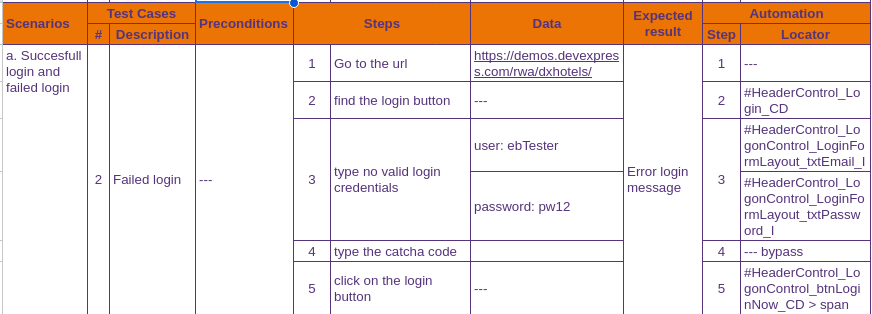
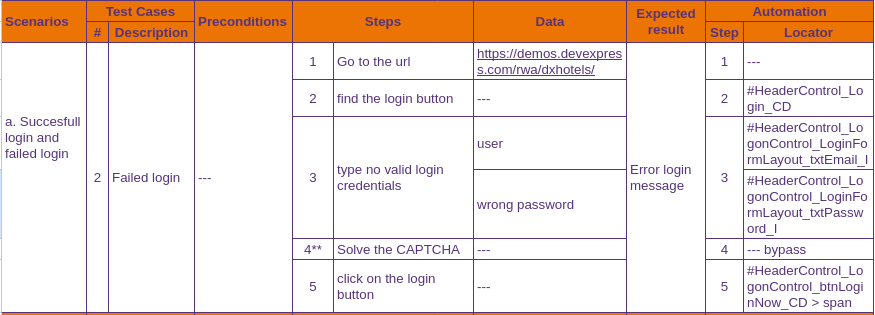
failed login test

diff --git a/tests/login.spec.ts b/tests/login.spec.ts
@@ -1,20 +1,39 @@
 import { test, expect } from '@playwright/test';
-import { MainPage } from '../pages/mainPage';
+import { MainPage } from '../pages/main.page';
+import { DevExpressPage } from '../pages/devExpress.page';
 import dotenv from 'dotenv';
 dotenv.config();
 
 const username = process.env.USERNAME || '';
 const password = process.env.PASSWORD || '';
+const wrongpassword = process.env.WRONGPASSWORD || '';
 
+
+test.describe('Login Feature', () => {
+ 
 
 test('Succesful login', async ({ page }) => {
   const mainPage = new MainPage(page);
+  const devExpressPage = new DevExpressPage(page);
   await mainPage.goto();
   await mainPage.devexpressIcon.click();
-  await mainPage.loginHeaderButton.click();
-  await mainPage.userInput.fill(username);
-  await mainPage.passInput.fill(password);
-  await mainPage.termsConditions.click();
-  await mainPage.loginButton.click();
-  await expect(mainPage.userIcon).toBeVisible({ timeout: 10000});
+  await devExpressPage.loginHeaderButton.click();
+  await devExpressPage.userInput.fill(username);
+  await devExpressPage.passInput.fill(password);
+  await devExpressPage.termsConditions.click();
+  await devExpressPage.loginButton.click();
+  await expect(devExpressPage.userIcon).toBeVisible({ timeout: 10000});
+})
+
+test('Failed login', async ({ page }) => {
+    const mainPage = new MainPage(page);
+    await mainPage.goto();
+    await mainPage.loginHeaderButton.click();
+    await mainPage.userInput.fill(username);
+    await mainPage.passForm.click();
+    await mainPage.passInput.fill(wrongpassword);
+    await mainPage.loginButton.click();
+    await expect(mainPage.errorMessage).toBeVisible();
+  })
+
 });

diff --git a/pages/main.page.ts b/pages/main.page.ts
@@ -1,0 +1,32 @@
+import { expect, type Locator, type Page } from '@playwright/test';
+import dotenv from 'dotenv';
+dotenv.config();
+
+const url = process.env.URL || '';
+
+export class MainPage {
+  readonly page: Page;
+  readonly devexpressIcon: Locator;
+  readonly loginHeaderButton: Locator;
+  readonly userInput: Locator;
+  readonly passForm: Locator;
+  readonly passInput: Locator;
+  readonly loginButton: Locator;
+  readonly errorMessage: Locator;
+
+
+  constructor(page: Page) {
+    this.page = page;
+    this.devexpressIcon = page.locator('#DevExpressHyperLink');
+    this.loginHeaderButton = page.locator('#HeaderControl_Login_CD');
+    this.userInput = page.locator('#HeaderControl_LogonControl_LoginFormLayout_txtEmail_I');
+    this.passForm = page.locator('#HeaderControl_LogonControl_LoginFormLayout_1'); 
+    this.passInput = page.locator('#HeaderControl_LogonControl_LoginFormLayout_txtPassword_I');
+    this.loginButton = page.locator('#HeaderControl_LogonControl_btnLoginNow_CD > span');
+    this.errorMessage = page.locator('#HeaderControl_LogonControl_LoginFormLayout_Captcha_TB_EC')
+   }
+
+  async goto() {
+    await this.page.goto(url);
+  }
+}

diff --git a/pages/devExpress.page.ts b/pages/devExpress.page.ts
@@ -1,12 +1,7 @@
 import { expect, type Locator, type Page } from '@playwright/test';
-import dotenv from 'dotenv';
-dotenv.config();
 
-const url = process.env.URL || '';
-
-export class MainPage {
+export class DevExpressPage {
   readonly page: Page;
-  readonly devexpressIcon: Locator;
   readonly loginHeaderButton: Locator;
   readonly userInput: Locator;
   readonly passInput: Locator;
@@ -17,16 +12,11 @@ export class MainPage {
 
   constructor(page: Page) {
     this.page = page;
-    this.devexpressIcon = page.locator('#DevExpressHyperLink');
     this.loginHeaderButton = page.locator('#LogIn');
     this.userInput = page.locator('#ctl00_ctl00_Content_Content_upLogin_pLogin_tbEmail_I');
     this.passInput= page.locator('#ctl00_ctl00_Content_Content_upLogin_pLogin_tbPassword_I_CLND');
     this.termsConditions= page.locator('#ctl00_ctl00_Content_Content_upLogin_pLogin_cbTermsOfUse_S_D');
     this.loginButton = page.locator('#ctl00_ctl00_Content_Content_upLogin_pLogin_bLogin > span');
     this.userIcon = page.locator('#MyAccount');
-  }
-
-  async goto() {
-    await this.page.goto(url);
   }
 }

diff --git a/README.md b/README.md
@@ -45,6 +45,8 @@ b. Reservación de un hotel: Establecer los siguientes parámetros:
 
 ![testCase2](assets/testCase2.png)
 
+\**In a real test environment, CAPTCHA is typically disabled. Although there are tools available to bypass it, these are not considered within the scope of the test. For this exercise, the CAPTCHA error message is treated as the login error message.
+
 ![testCase3I](assets/testCase3I.png)
 
 ![testCase3II](assets/testCase3II.png)
